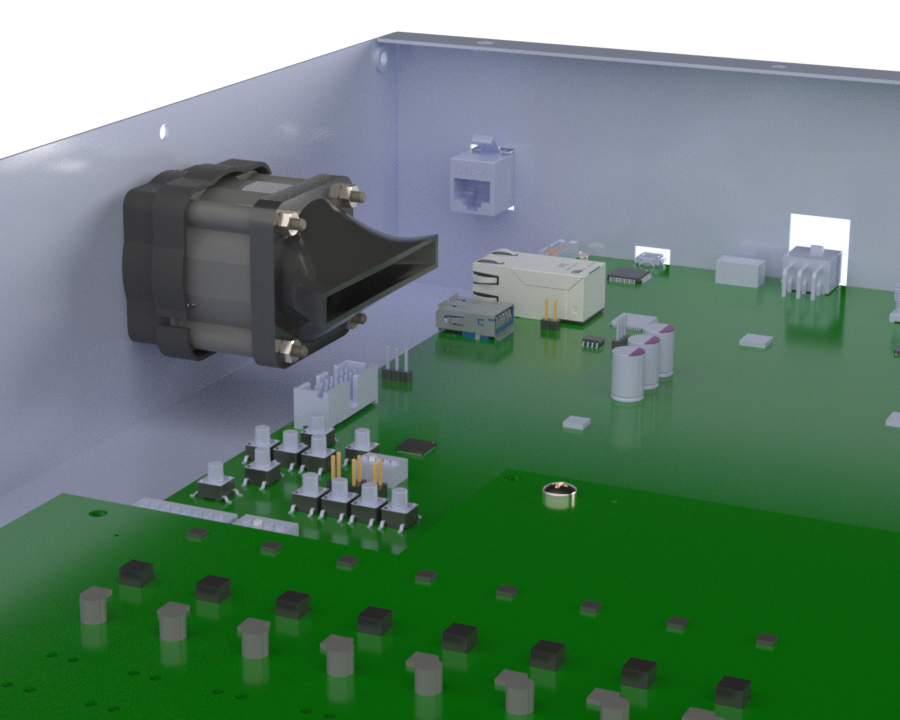
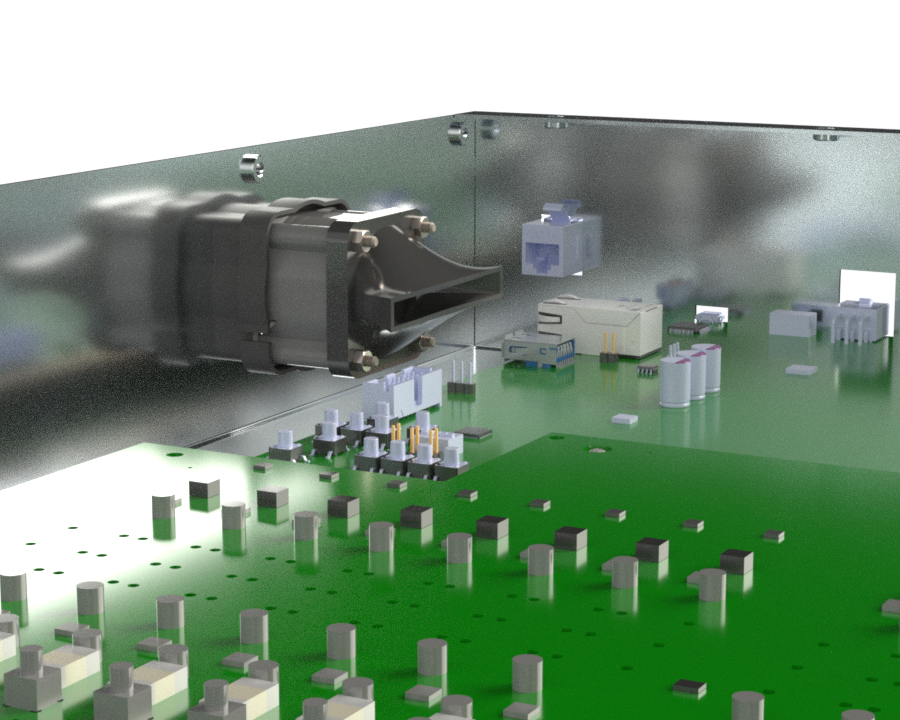
adfga

diff --git a/docs/stylesheets/extra.css b/docs/stylesheets/extra.css
@@ -340,3 +340,47 @@
   color: #fff;
   transform: translateY(-3px);
 }
+
+/* RIFTS brand colors */
+:root {
+  --rifts-blue: #00539B;
+  --rifts-yellow: #FFEE00;
+  --rifts-yellow-tint: #FFFAD1;
+}
+
+/* File tiles — compact, symmetrical, low-height download row */
+.file-tile-grid {
+  display: grid;
+  grid-template-columns: repeat(auto-fit, minmax(140px, 1fr));
+  gap: 0.6rem;
+  margin: 0.75rem 0 1.25rem;
+}
+
+.file-tile-grid a.file-tile {
+  display: flex;
+  flex-direction: row;
+  align-items: center;
+  justify-content: center;
+  gap: 0.5rem;
+  padding: 0.5rem 0.75rem;
+  border-radius: 10px;
+  border: 1.5px solid var(--rifts-blue);
+  color: var(--rifts-blue);
+  background: #fff;
+  font-weight: 600;
+  font-size: 0.8rem;
+  text-decoration: none;
+  transition: background 0.2s ease, border-color 0.2s ease, transform 0.15s ease, box-shadow 0.2s ease;
+}
+
+.file-tile-grid a.file-tile:hover {
+  background: var(--rifts-yellow-tint);
+  border-color: var(--rifts-yellow);
+  transform: translateY(-2px);
+  box-shadow: 0 4px 10px rgba(0, 0, 0, 0.12);
+}
+
+.file-tile-grid a.file-tile:active {
+  transform: translateY(0);
+  box-shadow: none;
+}

diff --git a/docs/hardware/rfsoc-4x2/media.md b/docs/hardware/rfsoc-4x2/media.md
@@ -6,41 +6,10 @@ Downloadable CAD model of the completed RFSoC 4x2 Portable Field Enclosure — t
 
 ## Downloads
 
-<div class="download-cards" markdown>
-
-<div class="download-card" style="--accent:#4A90D9;" markdown>
-<span class="card-icon">:fontawesome-solid-file-import:</span>
-
-**STEP**
-
-Neutral-format export compatible with SolidWorks, Fusion 360, OnShape, and most other CAD software.
-
-[Download](../../media/rfsoc-4x2/RIFTS_RFSoC_4x2_Enclosure.STEP){: .md-button :download}
-
-</div>
-
-<div class="download-card" style="--accent:#E8833A;" markdown>
-<span class="card-icon">:fontawesome-solid-file-import:</span>
-
-**Protocase Designer**
-
-The exact fabrication package (.pda) submitted for manufacturing — opens in Protocase's free design software.
-
-[Download](../../media/rfsoc-4x2/RIFTS_RFSoC_4x2_Enclosure.pda){: .md-button :download}
-
-</div>
-
-<div class="download-card" style="--accent:#8E5CD9;" markdown>
-<span class="card-icon">:fontawesome-solid-file-image:</span>
-
-**RIFTS Logo**
-
-Vector artwork (.svg) for panel engraving or printing during manufacturing.
-
-[Download](../../media/vectorized RIFTS logo.svg){: .md-button :download}
-
-</div>
-
+<div class="file-tile-grid" markdown>
+[:fontawesome-solid-file-import: STEP](../../media/rfsoc-4x2/RIFTS_RFSoC_4x2_Enclosure.STEP){: .file-tile download title="Neutral-format CAD export" }
+[:fontawesome-solid-file-import: Protocase Designer (.pda)](../../media/rfsoc-4x2/RIFTS_RFSoC_4x2_Enclosure.pda){: .file-tile download title="Exact fabrication package used for manufacturing" }
+[:fontawesome-solid-file-image: RIFTS Logo (.svg)](../../media/vectorized RIFTS logo.svg){: .file-tile download title="Vector logo for panel engraving or printing" }
 </div>
 
 !!! tip "Ordering from Protocase"

diff --git a/docs/hardware/ventilation/air-ducts.md b/docs/hardware/ventilation/air-ducts.md
@@ -133,7 +133,7 @@ ZCU216 length — Bambu Studio print project.
 
 ![Type A Render — Back](/hardware/ventilation/media/Type_A/Type_A_Assembly_Render_Back.png){: data-gallery="type-a-renders" }
 
-![Type A Render — In Enclosure](/hardware/ventilation/media/Type_A/Type_A_In_Enclosure_Render.png){: data-gallery="type-a-renders" }
+![Type A Render — In Enclosure](/hardware/ventilation/media/Type_A/Type_A_In_Enclosure_Render (2).png){: data-gallery="type-a-renders" }
 
 ![Type A Render — Short Variant](/hardware/ventilation/media/Type_A/Type_A_Assembly_Short_Render.png){: data-gallery="type-a-renders" }
 
@@ -224,7 +224,7 @@ ZCU216 length — Bambu Studio print project.
 
 ![Type B Render — In Enclosure](/hardware/ventilation/media/Type_B/Type_B_In_Enclosure_Render.png){: data-gallery="type-b-renders" }
 
-![Type B Render — Short Variant](/hardware/ventilation/media/Type_B/Type_B_Assembly_Short_Render.png){: data-gallery="type-b-renders" }
+![Type B Render — Short Variant](/hardware/ventilation/media/Type_B/Type_B_Assembly_Short_Render (2).png){: data-gallery="type-b-renders" }
 
 </div>
 
